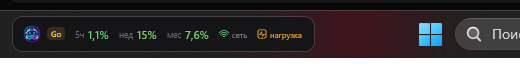
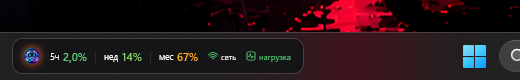
Make taskbar labels white

diff --git a/MainWindow.xaml b/MainWindow.xaml
@@ -556,7 +556,7 @@
                     <StackPanel Orientation="Horizontal" Margin="0,0,8,0">
                         <TextBlock Text="{DynamicResource FiveHourShort}"
                                    FontSize="8.5"
-                                   Foreground="{StaticResource FaintBrush}"
+                                   Foreground="{StaticResource TextBrush}"
                                    VerticalAlignment="Center" />
                         <TextBlock x:Name="TaskbarFiveHour"
                                    Text="-"
@@ -573,7 +573,7 @@
                     <StackPanel Orientation="Horizontal" Margin="0,0,8,0">
                         <TextBlock Text="{DynamicResource WeekShort}"
                                    FontSize="8.5"
-                                   Foreground="{StaticResource FaintBrush}"
+                                   Foreground="{StaticResource TextBrush}"
                                    VerticalAlignment="Center" />
                         <TextBlock x:Name="TaskbarWeek"
                                    Text="-"
@@ -590,7 +590,7 @@
                     <StackPanel Orientation="Horizontal">
                         <TextBlock Text="{DynamicResource MonthShort}"
                                    FontSize="8.5"
-                                   Foreground="{StaticResource FaintBrush}"
+                                   Foreground="{StaticResource TextBrush}"
                                    VerticalAlignment="Center" />
                         <TextBlock x:Name="TaskbarMonth"
                                    Text="-"
@@ -618,7 +618,7 @@
                         <TextBlock x:Name="TaskbarNetLabel"
                                    Text="{DynamicResource NetLabel}"
                                    FontSize="8"
-                                   Foreground="{StaticResource MutedBrush}"
+                                   Foreground="{StaticResource TextBrush}"
                                    Margin="3,0,0,0"
                                    VerticalAlignment="Center" />
                     </StackPanel>
@@ -636,7 +636,7 @@
                         <TextBlock x:Name="TaskbarLoadLabel"
                                    Text="{DynamicResource LoadLabel}"
                                    FontSize="8"
-                                   Foreground="{StaticResource MutedBrush}"
+                                   Foreground="{StaticResource TextBrush}"
                                    Margin="3,0,0,0"
                                    VerticalAlignment="Center" />
                     </StackPanel>

diff --git a/MainWindow.xaml.cs b/MainWindow.xaml.cs
@@ -1069,9 +1069,7 @@ public partial class MainWindow : Window
         LiveIcon.Foreground = brush;
         CompactLiveIcon.Foreground = brush;
         TaskbarNetIcon.Foreground = brush;
-        TaskbarNetLabel.Foreground = state == LinkState.Ok
-            ? (Brush)FindResource("MutedBrush")
-            : brush;
+        TaskbarNetLabel.Foreground = (Brush)FindResource("TextBrush");
     }
 
     private void CheckFullscreen()

diff --git a/README.md b/README.md
@@ -227,6 +227,7 @@ OpenCode Console -> Account -> Personal API keys
 
 В полосе нет плашки Go: вместо неё логотип светится цветом месячного лимита.
 Чем больше израсходовано, тем теплее свечение: зелёный, жёлтый, оранжевый, красный.
+Подписи `5ч`, `нед`, `мес`, `сеть` и `нагрузка` белые, а проценты окрашены по остатку лимита.
 Тариф и дата продления по-прежнему видны в подсказке при наведении на полосу.
 
 Это отдельное topmost-окно поверх панели задач, а не системный deskband:

diff --git a/README.en.md b/README.en.md
@@ -227,6 +227,7 @@ Double-click the bar to return to the normal view.
 
 There is no Go badge in the bar: the logo glows in the monthly limit colour instead.
 The more of the month is spent, the warmer the glow: green, yellow, orange, red.
+The `5h`, `week`, `month`, `net` and `load` labels are white, while the percentages keep the limit colour.
 The plan and renewal date are still available in the tooltip when you hover the bar.
 
 On Windows 11 the bar sits in the free left area; on Windows 10 it is placed near the tray,
